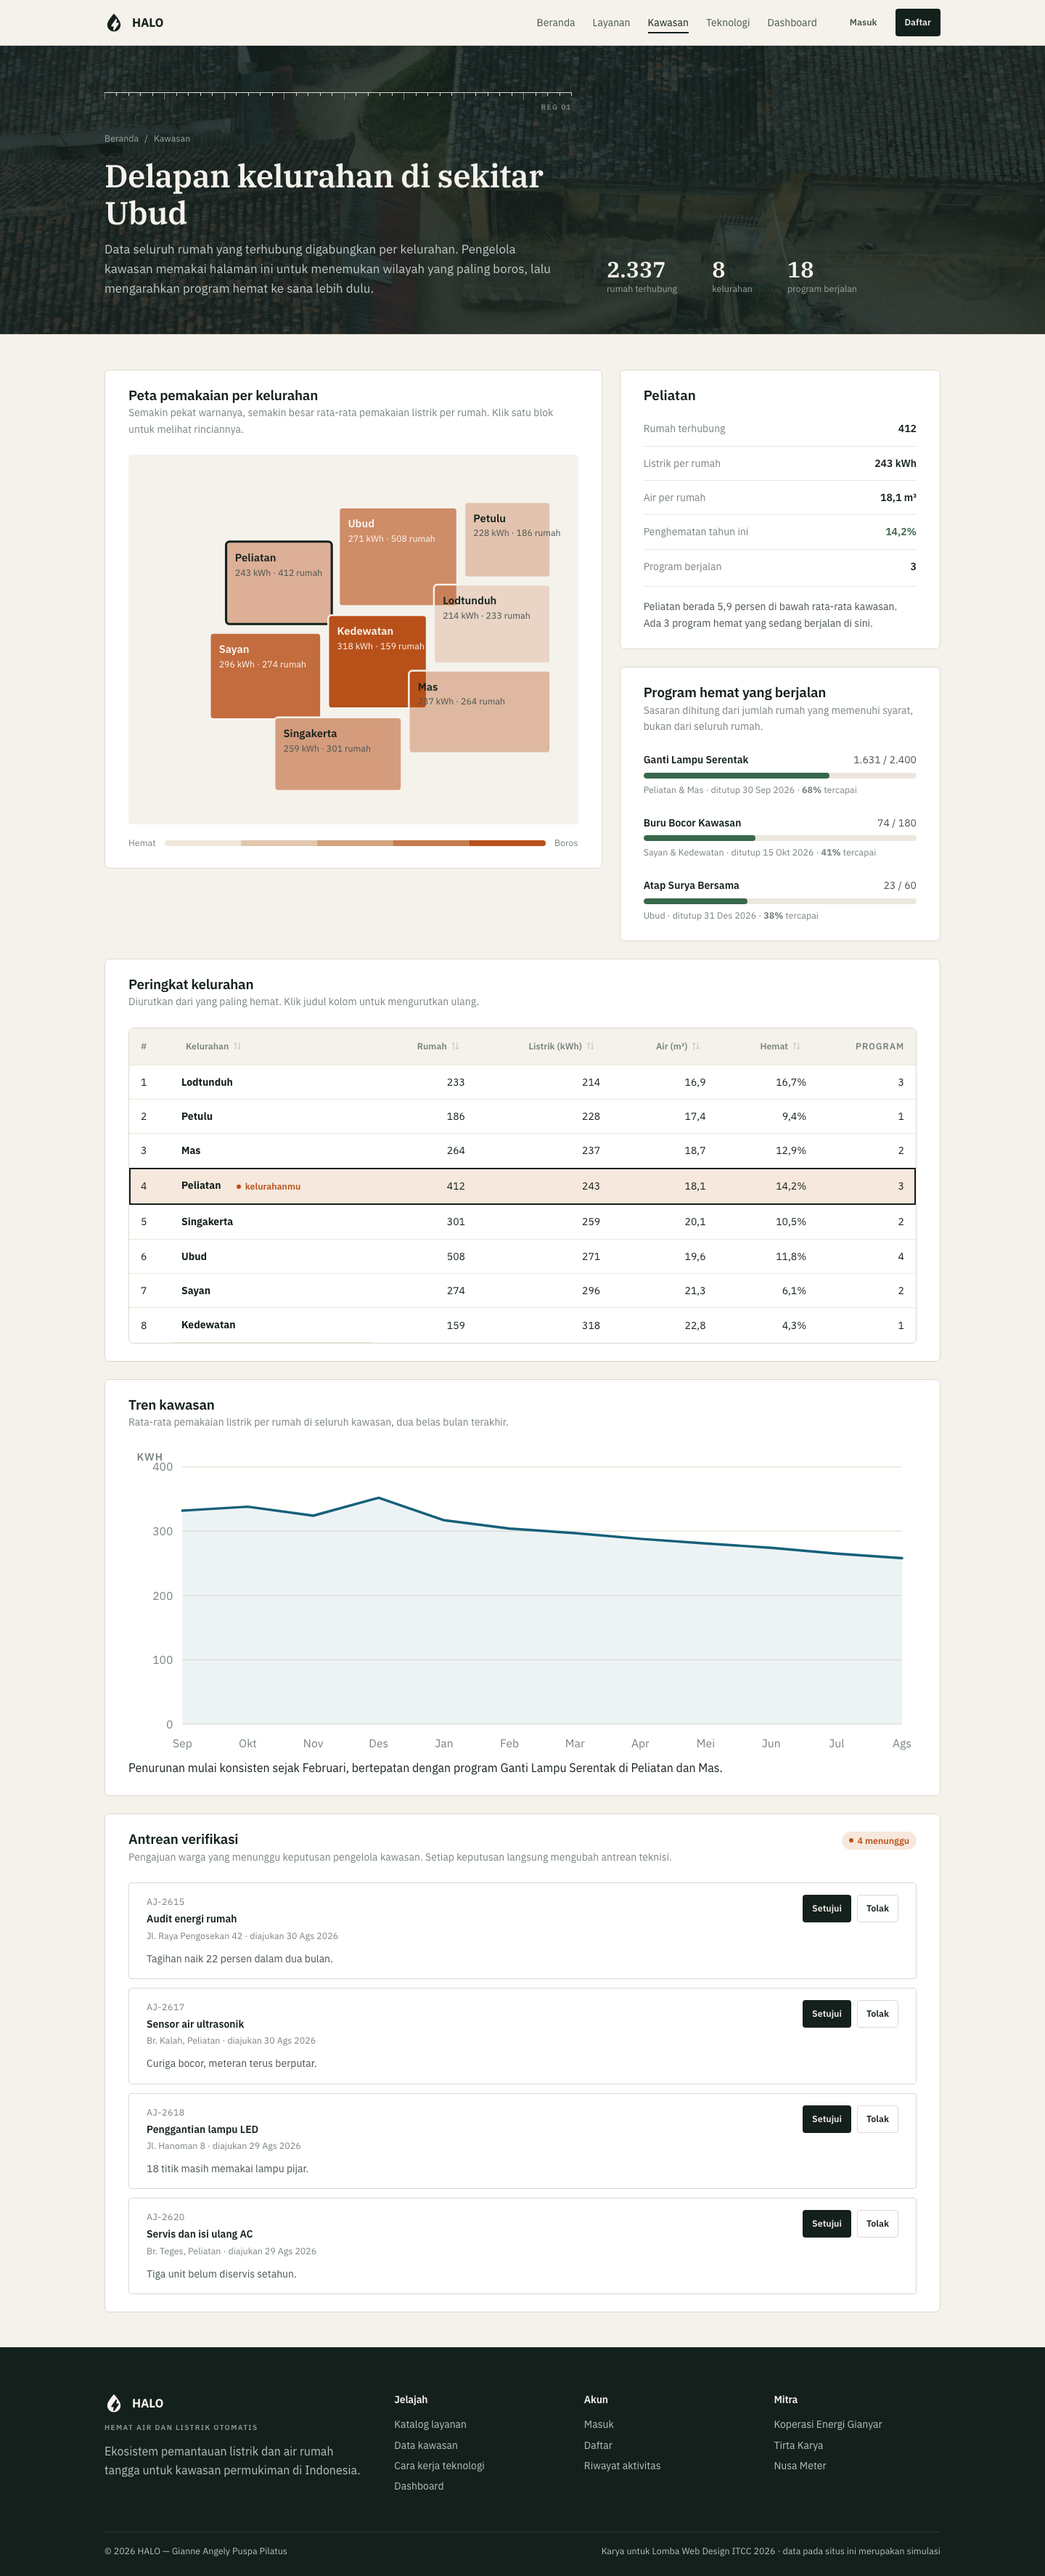
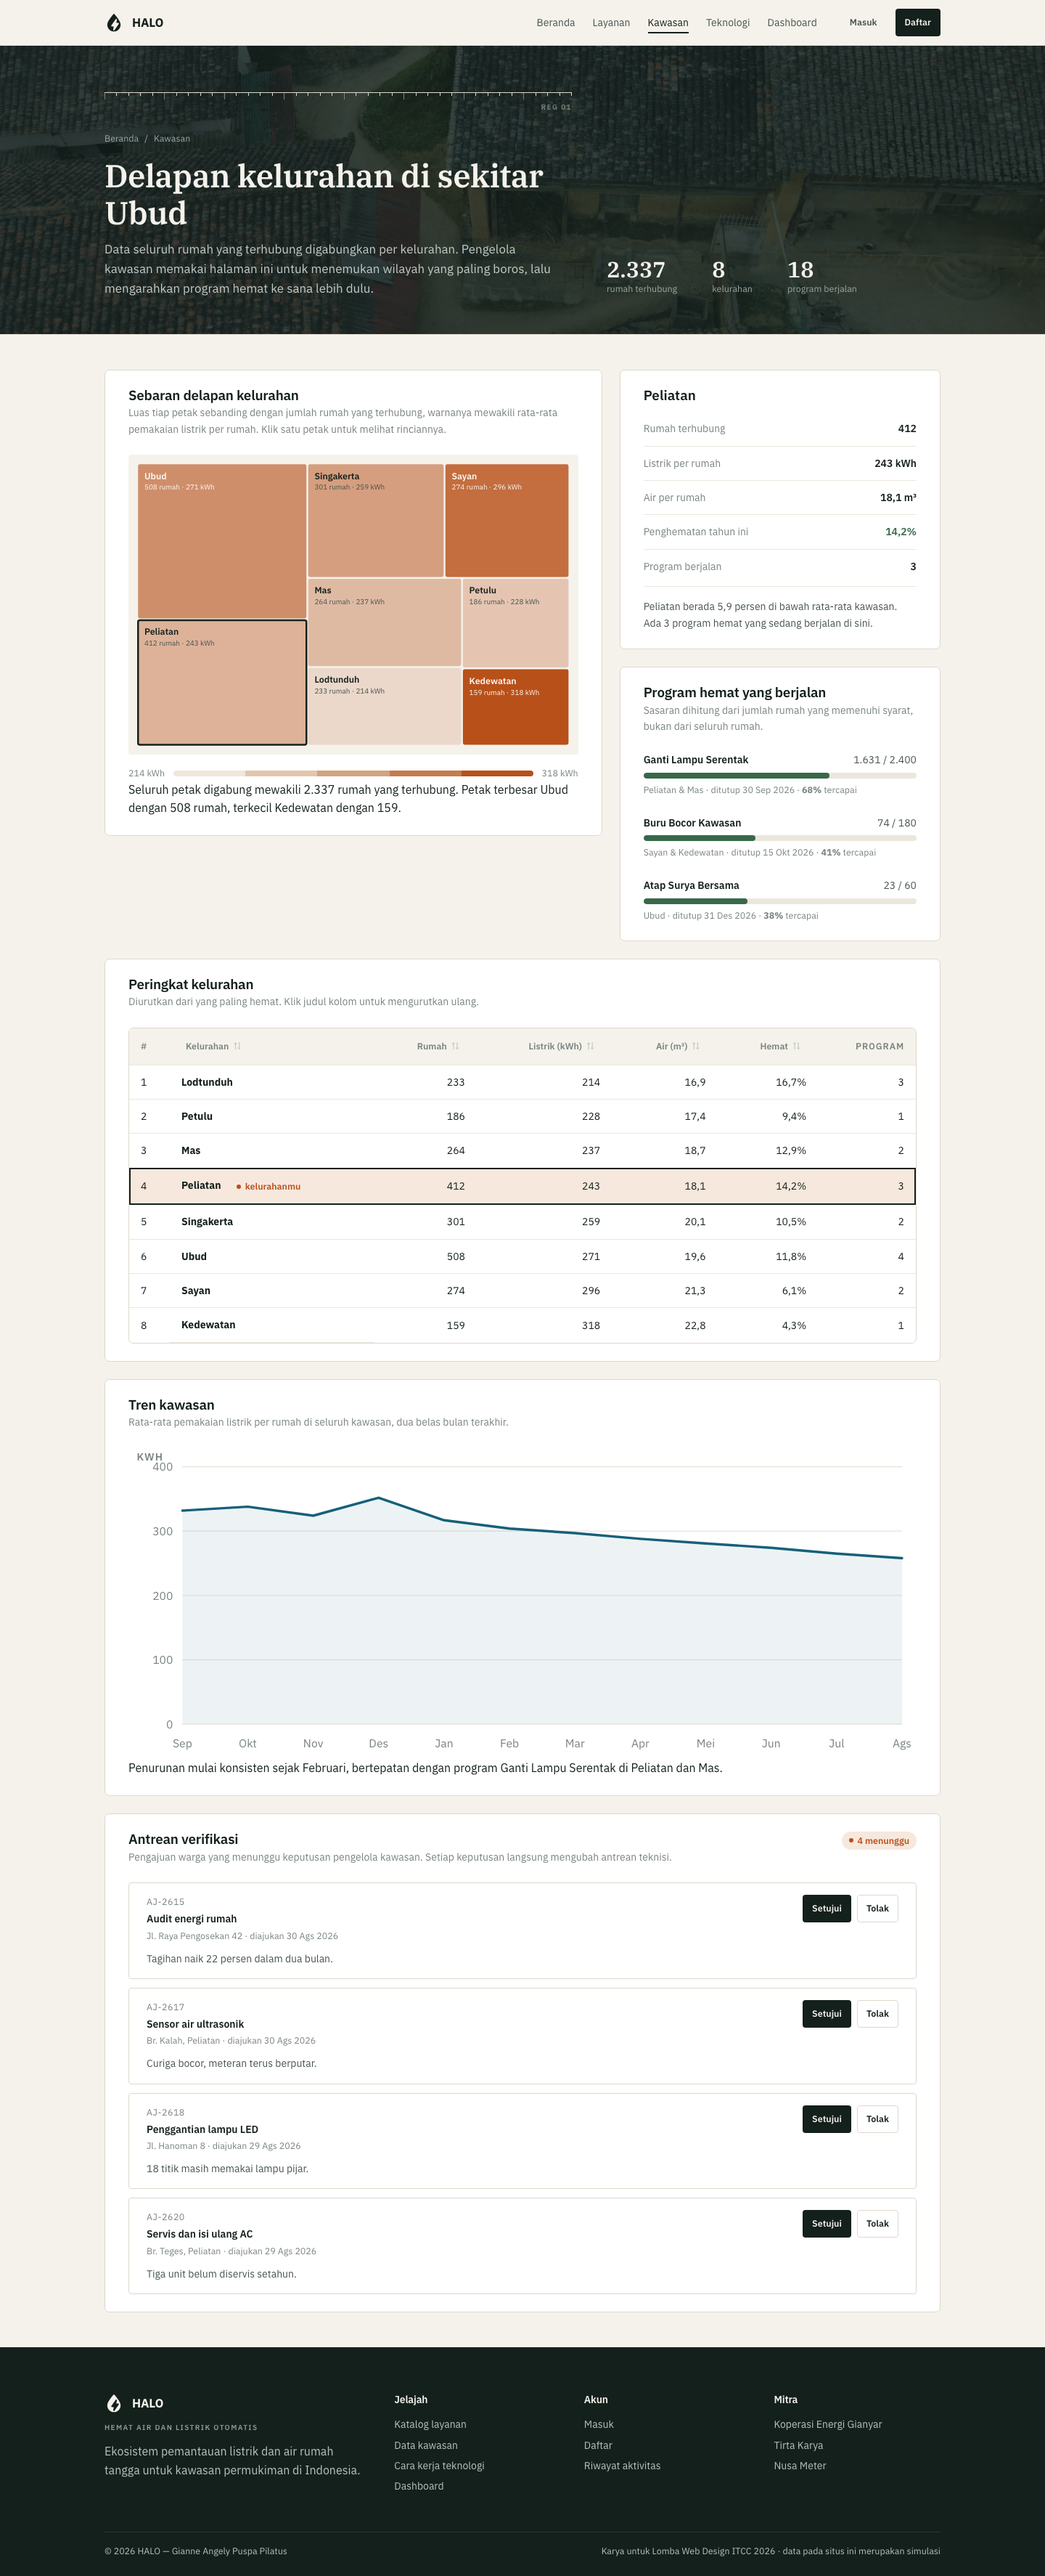
Peta kawasan diganti petak berukuran data
Versi lama bukan peta dan bukan diagram. Bentuknya tidak menyerupai
geografi Ubud, dan ukuran tiap blok ditentukan lewat koordinat yang
ditulis manual sehingga tidak mewakili apa pun. Blok-bloknya juga saling
tumpang tindih sehingga terbaca seperti rusak.

Sekarang jadi petak berukuran data: luas tiap petak sebanding jumlah
rumah yang terhubung, warnanya rata-rata pemakaian listrik per rumah.
Kedua dimensinya membawa data. Penataannya memakai cara squarified
sehingga petaknya mendekati persegi, bukan bilah tipis.

Diverifikasi sebelum dipasang: galat luas 0,00 persen di kedelapan
petak, bidang terpakai 100 persen, nol tumpang tindih, aspek terburuk
1,97. Total luasnya harfiah mewakili 2.337 rumah, angka yang sama
dengan yang dikutip di seluruh situs.

Koordinat x, y, w, h yang lama dibuang dari data.js karena sudah jadi
data mati. Di layar sempit petaknya digulir mendatar supaya namanya
tetap terbaca.

Changed region(s): [[0.125, 0.1551, 0.5625, 0.3411]]

diff --git a/WD_MAHASISWA_Gianne Angely Puspa Pilatus_ITCC 2026/Gianne Angely Puspa Pilatus_Website/js/grafik.js b/WD_MAHASISWA_Gianne Angely Puspa Pilatus_ITCC 2026/Gianne Angely Puspa Pilatus_Website/js/grafik.js
@@ -493,6 +493,128 @@ const Grafik = (function () {
     return svg;
   }
 
+  /* ---------------------------------------------------------
+     Petak berukuran data (treemap).
+     Luas tiap petak sebanding dengan nilainya, warnanya mewakili
+     nilai kedua. Dipakai menggantikan "peta" blok lama yang
+     ukurannya tidak mewakili apa pun.
+
+     Penataannya memakai cara squarified: petak diisi selajur demi
+     selajur pada sisi terpendek yang tersisa, dan satu petak baru
+     hanya ditambahkan ke lajur berjalan selama bentuknya tidak
+     jadi makin panjang. Hasilnya petak-petak mendekati persegi,
+     bukan bilah tipis yang tidak terbaca.
+
+     opsi: { data:[{nama,luas,warnaNilai,keterangan}], warna,
+             minWarna, maksWarna, saatPilih }
+     --------------------------------------------------------- */
+  function petakData(wadah, opsi) {
+    const W = 720, H = 470, jarak = 3;
+    const svg = bingkai(W, H, 'gr-petak');
+    svg.setAttribute('aria-label', opsi.judulAria || 'Petak berukuran data');
+
+    const total = opsi.data.reduce((a, b) => a + b.luas, 0);
+    const skala = (W * H) / total;
+    const antre = opsi.data
+      .map(d => Object.assign({}, d, { area: d.luas * skala }))
+      .sort((a, b) => b.area - a.area);
+
+    /* Sisa bidang yang belum terisi */
+    let x = 0, y = 0, w = W, h = H;
+    const hasil = [];
+
+    const jumlah = r => r.reduce((a, b) => a + b.area, 0);
+    const terburuk = (r, sisi) => {
+      if (!r.length) return Infinity;
+      const s = jumlah(r), maks = Math.max(...r.map(i => i.area)), min = Math.min(...r.map(i => i.area));
+      return Math.max((sisi * sisi * maks) / (s * s), (s * s) / (sisi * sisi * min));
+    };
+    const taruhLajur = lajur => {
+      const s = jumlah(lajur);
+      if (w >= h) {                       /* lajur tegak di tepi kiri */
+        const tebal = s / h;
+        let geser = 0;
+        lajur.forEach(i => {
+          const sisi = i.area / tebal;
+          hasil.push(Object.assign({}, i, { px: x, py: y + geser, pw: tebal, ph: sisi }));
+          geser += sisi;
+        });
+        x += tebal; w -= tebal;
+      } else {                            /* lajur mendatar di tepi atas */
+        const tebal = s / w;
+        let geser = 0;
+        lajur.forEach(i => {
+          const sisi = i.area / tebal;
+          hasil.push(Object.assign({}, i, { px: x + geser, py: y, pw: sisi, ph: tebal }));
+          geser += sisi;
+        });
+        y += tebal; h -= tebal;
+      }
+    };
+
+    let lajur = [];
+    while (antre.length) {
+      const sisi = Math.min(w, h);
+      const calon = lajur.concat(antre[0]);
+      if (!lajur.length || terburuk(calon, sisi) <= terburuk(lajur, sisi)) {
+        lajur.push(antre.shift());
+      } else {
+        taruhLajur(lajur);
+        lajur = [];
+      }
+    }
+    if (lajur.length) taruhLajur(lajur);
+
+    /* Gambar */
+    const nilaiWarna = hasil.map(d => d.warnaNilai);
+    const minW = opsi.minWarna !== undefined ? opsi.minWarna : Math.min(...nilaiWarna);
+    const maksW = opsi.maksWarna !== undefined ? opsi.maksWarna : Math.max(...nilaiWarna);
+    const petakPer = {};
+
+    hasil.forEach(d => {
+      const kuat = 0.16 + ((d.warnaNilai - minW) / (maksW - minW || 1)) * 0.84;
+      const g = el('g', { class: 'petak-satu', tabindex: '0', role: 'button' });
+      g.setAttribute('aria-label', d.nama + ', ' + d.luas + ' rumah, ' + d.warnaNilai + ' kilowatt jam per rumah');
+
+      const r = el('rect', {
+        x: d.px + jarak / 2, y: d.py + jarak / 2,
+        width: Math.max(0, d.pw - jarak), height: Math.max(0, d.ph - jarak),
+        rx: 3, fill: opsi.warna, 'fill-opacity': kuat.toFixed(3), class: 'petak-kotak'
+      });
+      g.appendChild(r);
+
+      /* Tulisan hanya dipasang kalau petaknya memang cukup luas */
+      const terang = kuat > 0.58;
+      if (d.pw > 74 && d.ph > 42) {
+        const t1 = el('text', { x: d.px + 12, y: d.py + 26, class: 'petak-nama' + (terang ? ' petak-balik' : '') });
+        t1.textContent = d.nama;
+        g.appendChild(t1);
+        if (d.ph > 62) {
+          const t2 = el('text', { x: d.px + 12, y: d.py + 44, class: 'petak-angka' + (terang ? ' petak-balik' : '') });
+          t2.textContent = d.keterangan;
+          g.appendChild(t2);
+        }
+      }
+      svg.appendChild(g);
+      petakPer[d.nama] = { g: g, r: r };
+      if (opsi.saatPilih) {
+        g.addEventListener('click', () => opsi.saatPilih(d.nama));
+        g.addEventListener('keydown', e => {
+          if (e.key === 'Enter' || e.key === ' ') { e.preventDefault(); opsi.saatPilih(d.nama); }
+        });
+      }
+    });
+
+    wadah.innerHTML = '';
+    wadah.appendChild(svg);
+    return {
+      svg: svg,
+      sorot(nama) {
+        Object.keys(petakPer).forEach(n => petakPer[n].g.classList.toggle('petak-terpilih', n === nama));
+      }
+    };
+  }
+
   /* Angka sumbu dipendekkan supaya tidak memakan tempat.
      Jumlah angka di belakang koma mengikuti besar langkah sumbunya,
      supaya ambang seperti 0,25 tidak terbaca menjadi 0,3. */
@@ -502,5 +624,5 @@ const Grafik = (function () {
     return F.angka(v, desimal !== undefined ? desimal : (v % 1 === 0 ? 0 : 1));
   }
 
-  return { garis, batang, batangDatar, cincin, petaPanas, kilau, aliranGanda, ringkas };
+  return { garis, batang, batangDatar, cincin, petaPanas, kilau, aliranGanda, petakData, ringkas };
 })();

diff --git a/WD_MAHASISWA_Gianne Angely Puspa Pilatus_ITCC 2026/Gianne Angely Puspa Pilatus_Website/js/kawasan.js b/WD_MAHASISWA_Gianne Angely Puspa Pilatus_ITCC 2026/Gianne Angely Puspa Pilatus_Website/js/kawasan.js
@@ -3,67 +3,37 @@
    ============================================================ */
 document.addEventListener('DOMContentLoaded', function () {
 
-  const NS = 'http://www.w3.org/2000/svg';
   const maksListrik = Math.max(...HALO.kawasan.map(k => k.listrik));
   const minListrik  = Math.min(...HALO.kawasan.map(k => k.listrik));
 
-  /* ---------- Peta blok kelurahan ----------
-     Digambar sebagai SVG sederhana. Letak dan ukuran tiap blok
-     diambil dari data, warnanya mengikuti besar pemakaian. */
-  const wadahPeta = document.getElementById('petaKawasan');
-  const svg = document.createElementNS(NS, 'svg');
-  svg.setAttribute('viewBox', '0 0 476 386');
-  svg.setAttribute('class', 'gr');
-  svg.setAttribute('role', 'img');
-  svg.setAttribute('aria-label', 'Peta blok delapan kelurahan dengan warna menurut besar pemakaian listrik');
-
-  const blok = {};
-  HALO.kawasan.forEach(k => {
-    const kuat = 0.18 + ((k.listrik - minListrik) / (maksListrik - minListrik)) * 0.82;
-    const g = document.createElementNS(NS, 'g');
-
-    const r = document.createElementNS(NS, 'rect');
-    r.setAttribute('x', k.x); r.setAttribute('y', k.y);
-    r.setAttribute('width', k.w); r.setAttribute('height', k.h);
-    r.setAttribute('rx', 4);
-    r.setAttribute('fill', 'var(--listrik)');
-    r.setAttribute('fill-opacity', kuat.toFixed(2));
-    r.setAttribute('stroke', 'var(--paper)');
-    r.setAttribute('stroke-width', 2);
-    r.setAttribute('class', 'peta-blok');
-    g.appendChild(r);
-
-    /* Blok yang warnanya pekat memakai tulisan terang supaya tetap terbaca */
-    const terang = kuat > 0.58;
-
-    const nama = document.createElementNS(NS, 'text');
-    nama.setAttribute('x', k.x + 10); nama.setAttribute('y', k.y + 22);
-    nama.setAttribute('class', 'peta-nama' + (terang ? ' peta-balik' : ''));
-    nama.textContent = k.nama;
-    g.appendChild(nama);
-
-    const nilai = document.createElementNS(NS, 'text');
-    nilai.setAttribute('x', k.x + 10); nilai.setAttribute('y', k.y + 38);
-    nilai.setAttribute('class', 'peta-nilai' + (terang ? ' peta-balik' : ''));
-    nilai.textContent = k.listrik + ' kWh · ' + k.rumah + ' rumah';
-    g.appendChild(nilai);
-
-    svg.appendChild(g);
-    blok[k.nama] = r;
-    r.addEventListener('click', () => pilih(k.nama));
-    r.addEventListener('keydown', e => { if (e.key === 'Enter' || e.key === ' ') { e.preventDefault(); pilih(k.nama); } });
-    r.setAttribute('tabindex', '0');
-    r.setAttribute('role', 'button');
-    r.setAttribute('aria-label', k.nama + ', ' + k.listrik + ' kilowatt jam per rumah');
-  });
-  wadahPeta.appendChild(svg);
+  /* ---------- Petak berukuran data ----------
+     Luas tiap petak sebanding dengan jumlah rumah yang terhubung,
+     warnanya mewakili rata-rata pemakaian listrik per rumah.
+     Jadi kedua dimensinya membawa data — bukan kotak yang ukurannya
+     ditentukan sembarangan seperti versi sebelumnya. */
+  let petak = null;
+  const wadahPetak = document.getElementById('petakKawasan');
+  if (wadahPetak) {
+    petak = Grafik.petakData(wadahPetak, {
+      data: HALO.kawasan.map(k => ({
+        nama: k.nama,
+        luas: k.rumah,
+        warnaNilai: k.listrik,
+        keterangan: k.rumah + ' rumah · ' + k.listrik + ' kWh'
+      })),
+      warna: 'var(--listrik)',
+      minWarna: minListrik,
+      maksWarna: maksListrik,
+      judulAria: 'Petak delapan kelurahan, luasnya sebanding jumlah rumah dan warnanya mewakili pemakaian listrik per rumah',
+      saatPilih: nama => pilih(nama)
+    });
+  }
 
   /* ---------- Rincian kelurahan terpilih ---------- */
   const rataKawasan = HALO.kawasan.reduce((a, b) => a + b.listrik, 0) / HALO.kawasan.length;
   function pilih(nama) {
     const k = HALO.kawasan.find(x => x.nama === nama);
-    Object.values(blok).forEach(b => b.classList.remove('peta-terpilih'));
-    blok[nama].classList.add('peta-terpilih');
+    if (petak) petak.sorot(nama);
 
     document.getElementById('rkNama').textContent = k.nama;
     document.getElementById('rkRumah').textContent = F.angka(k.rumah);

diff --git a/WD_MAHASISWA_Gianne Angely Puspa Pilatus_ITCC 2026/Gianne Angely Puspa Pilatus_Website/css/kawasan.css b/WD_MAHASISWA_Gianne Angely Puspa Pilatus_ITCC 2026/Gianne Angely Puspa Pilatus_Website/css/kawasan.css
@@ -7,14 +7,22 @@
 .kepala-angka span { font-size: var(--fs-xs); color: var(--ink-3); }
 
 /* ---------- Peta blok ---------- */
-.peta-bungkus { background: var(--paper); border-radius: var(--r-sm); padding: var(--s4); }
-.peta-blok { cursor: pointer; transition: fill-opacity .16s var(--ease), stroke-width .16s var(--ease); }
-.peta-blok:hover { fill-opacity: 1 !important; }
-.peta-terpilih { stroke: var(--ink); stroke-width: 2.5; }
-.peta-nama { font-size: 12px; font-weight: 600; fill: var(--ink); font-family: 'Plex Sans', sans-serif; pointer-events: none; }
-.peta-nilai { font-size: 10px; fill: var(--ink-2); font-family: 'Plex Sans', sans-serif; font-variant-numeric: tabular-nums; pointer-events: none; }
+/* ---------- Petak berukuran data ---------- */
+.peta-bungkus { background: var(--paper); border-radius: var(--r-sm); padding: var(--s3); }
+/* Petak punya lebar minimum supaya namanya tetap terbaca; kalau
+   layarnya lebih sempit, kotaknya yang digulir mendatar. */
+#petakKawasan .gr { min-width: 560px; }
+.petak-satu { cursor: pointer; }
+.petak-kotak { transition: fill-opacity .16s var(--ease); }
+.petak-satu:hover .petak-kotak { fill-opacity: 1 !important; }
+.petak-satu:focus-visible { outline: none; }
+.petak-satu:focus-visible .petak-kotak { stroke: var(--ink); stroke-width: 3; }
+.petak-terpilih .petak-kotak { stroke: var(--ink); stroke-width: 3; }
+.petak-nama { font-size: 15px; font-weight: 600; fill: var(--ink); font-family: 'Plex Sans', sans-serif; pointer-events: none; }
+.petak-angka { font-size: 12px; fill: var(--ink-2); font-family: 'Plex Sans', sans-serif; font-variant-numeric: tabular-nums; pointer-events: none; }
+.petak-balik { fill: #fdf9f3; }
 .peta-skala { display: flex; align-items: center; gap: var(--s3); margin-top: var(--s4); }
-.peta-skala-teks { font-size: var(--fs-xs); color: var(--ink-3); }
+.peta-skala-teks { font-size: var(--fs-xs); color: var(--ink-3); font-variant-numeric: tabular-nums; white-space: nowrap; }
 .peta-skala-bar {
   flex: 1; height: 8px; border-radius: 4px;
   /* Deret warna rata bertingkat, bukan gradasi */
@@ -66,7 +74,6 @@
   .antre-aksi .btn { flex: 1; }
 }
 .baris-sorot { outline: 2px solid var(--ink); outline-offset: -2px; }
-.peta-balik { fill: #fdf9f3; }
 
 /* ---------- Kepala berfoto ----------
    Foto udara jadi latar, ditutup lapisan warna rata (bukan gradasi)

diff --git a/WD_MAHASISWA_Gianne Angely Puspa Pilatus_ITCC 2026/Gianne Angely Puspa Pilatus_Website/js/data.js b/WD_MAHASISWA_Gianne Angely Puspa Pilatus_ITCC 2026/Gianne Angely Puspa Pilatus_Website/js/data.js
@@ -194,16 +194,17 @@ const HALO = (function () {
       dampak:'Sekitar 3,2 kWh per bulan, setara Rp4.600.', tindakan:'kulkas-inverter' }
   ];
 
-  /* Data kawasan — kelurahan dan desa di sekitar Ubud, Gianyar */
+  /* Data kawasan — kelurahan dan desa di sekitar Ubud, Gianyar.
+     Jumlah rumah menentukan luas petak, pemakaian listrik menentukan warnanya. */
   const kawasan = [
-    { nama:'Peliatan',   rumah:412, listrik:243, air:18.1, hemat:14.2, program:3, x: 96, y: 84, w:118, h: 92 },
-    { nama:'Ubud',       rumah:508, listrik:271, air:19.6, hemat:11.8, program:4, x:222, y: 46, w:132, h:110 },
-    { nama:'Petulu',     rumah:186, listrik:228, air:17.4, hemat: 9.4, program:1, x:362, y: 40, w: 96, h: 84 },
-    { nama:'Sayan',      rumah:274, listrik:296, air:21.3, hemat: 6.1, program:2, x: 78, y:186, w:124, h: 96 },
-    { nama:'Kedewatan',  rumah:159, listrik:318, air:22.8, hemat: 4.3, program:1, x:210, y:166, w:110, h:104 },
-    { nama:'Lodtunduh',  rumah:233, listrik:214, air:16.9, hemat:16.7, program:3, x:328, y:132, w:130, h: 88 },
-    { nama:'Singakerta', rumah:301, listrik:259, air:20.1, hemat:10.5, program:2, x:150, y:280, w:142, h: 82 },
-    { nama:'Mas',        rumah:264, listrik:237, air:18.7, hemat:12.9, program:2, x:300, y:228, w:158, h: 92 }
+    { nama:'Peliatan',   rumah:412, listrik:243, air:18.1, hemat:14.2, program:3 },
+    { nama:'Ubud',       rumah:508, listrik:271, air:19.6, hemat:11.8, program:4 },
+    { nama:'Petulu',     rumah:186, listrik:228, air:17.4, hemat: 9.4, program:1 },
+    { nama:'Sayan',      rumah:274, listrik:296, air:21.3, hemat: 6.1, program:2 },
+    { nama:'Kedewatan',  rumah:159, listrik:318, air:22.8, hemat: 4.3, program:1 },
+    { nama:'Lodtunduh',  rumah:233, listrik:214, air:16.9, hemat:16.7, program:3 },
+    { nama:'Singakerta', rumah:301, listrik:259, air:20.1, hemat:10.5, program:2 },
+    { nama:'Mas',        rumah:264, listrik:237, air:18.7, hemat:12.9, program:2 }
   ];
 
   /* Antrean verifikasi milik peran pengelola kawasan */

diff --git a/WD_MAHASISWA_Gianne Angely Puspa Pilatus_ITCC 2026/Gianne Angely Puspa Pilatus_Website/pages/kawasan.html b/WD_MAHASISWA_Gianne Angely Puspa Pilatus_ITCC 2026/Gianne Angely Puspa Pilatus_Website/pages/kawasan.html
@@ -70,16 +70,17 @@
         <div class="kotak">
           <div class="kotak-kepala">
             <div>
-              <h2>Peta pemakaian per kelurahan</h2>
-              <p>Semakin pekat warnanya, semakin besar rata-rata pemakaian listrik per rumah. Klik satu blok untuk melihat rinciannya.</p>
+              <h2>Sebaran delapan kelurahan</h2>
+              <p>Luas tiap petak sebanding dengan jumlah rumah yang terhubung, warnanya mewakili rata-rata pemakaian listrik per rumah. Klik satu petak untuk melihat rinciannya.</p>
             </div>
           </div>
-          <div class="gr-wadah peta-bungkus"><div id="petaKawasan"></div></div>
+          <div class="gr-wadah peta-bungkus gulir-x"><div id="petakKawasan"></div></div>
           <div class="peta-skala">
-            <span class="peta-skala-teks">Hemat</span>
+            <span class="peta-skala-teks">214 kWh</span>
             <span class="peta-skala-bar"></span>
-            <span class="peta-skala-teks">Boros</span>
+            <span class="peta-skala-teks">318 kWh</span>
           </div>
+          <p class="gr-keterangan">Seluruh petak digabung mewakili 2.337 rumah yang terhubung. Petak terbesar Ubud dengan 508 rumah, terkecil Kedewatan dengan 159.</p>
         </div>
 
         <div class="tumpuk">
